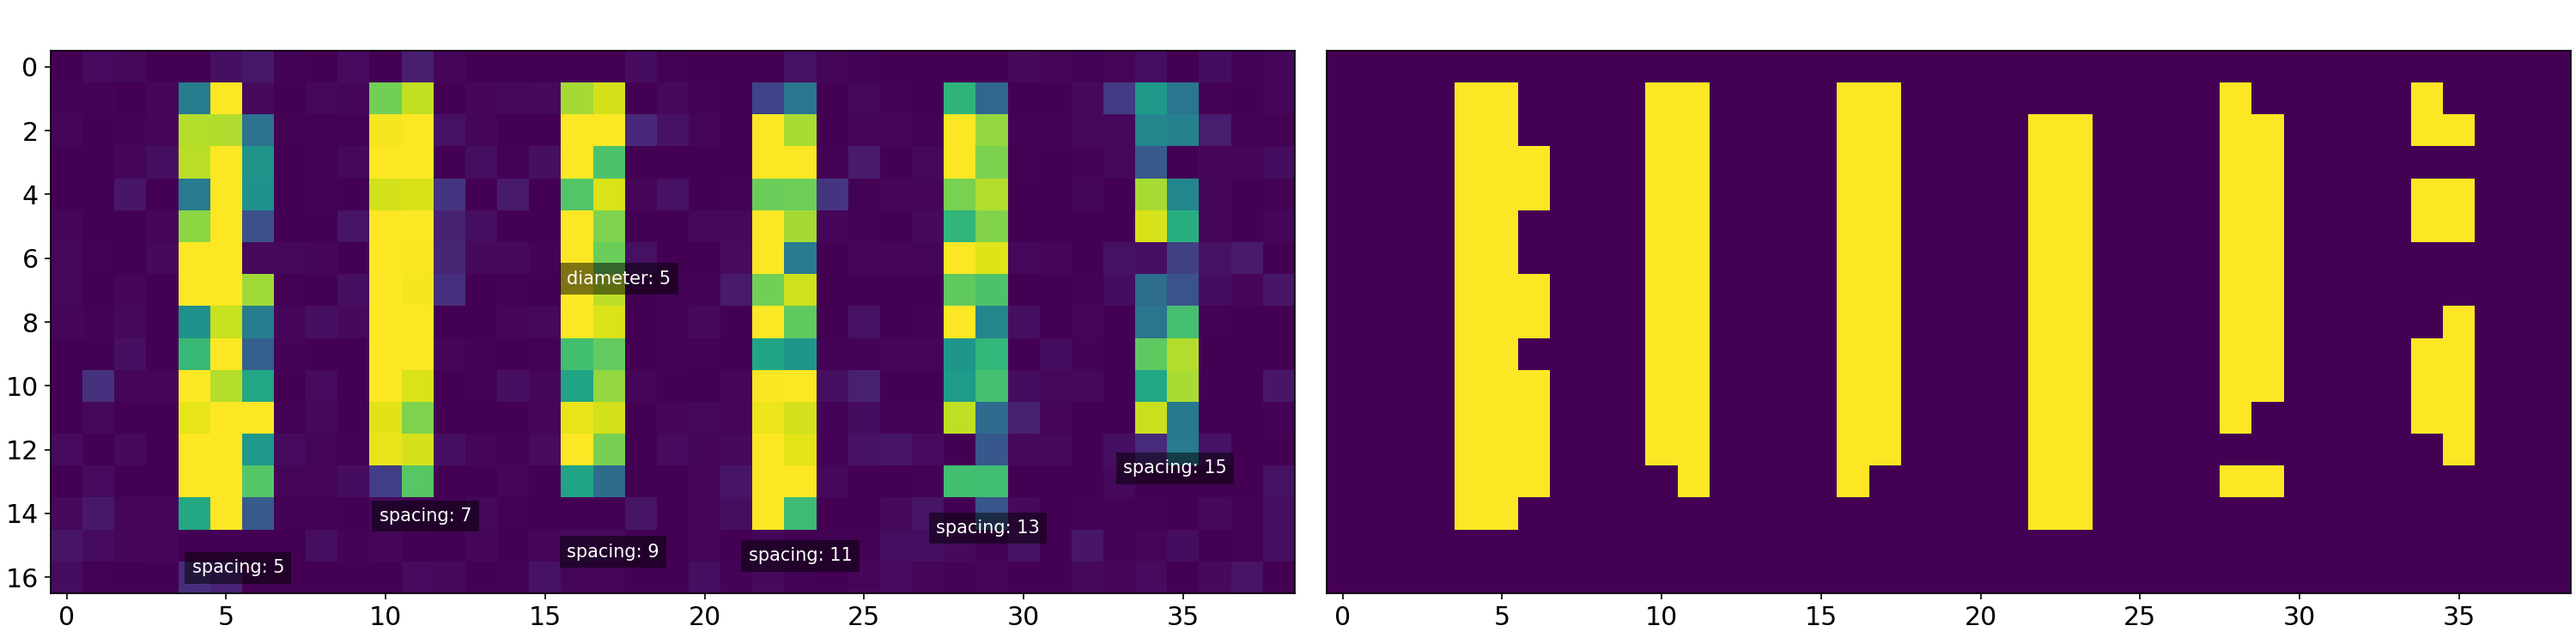
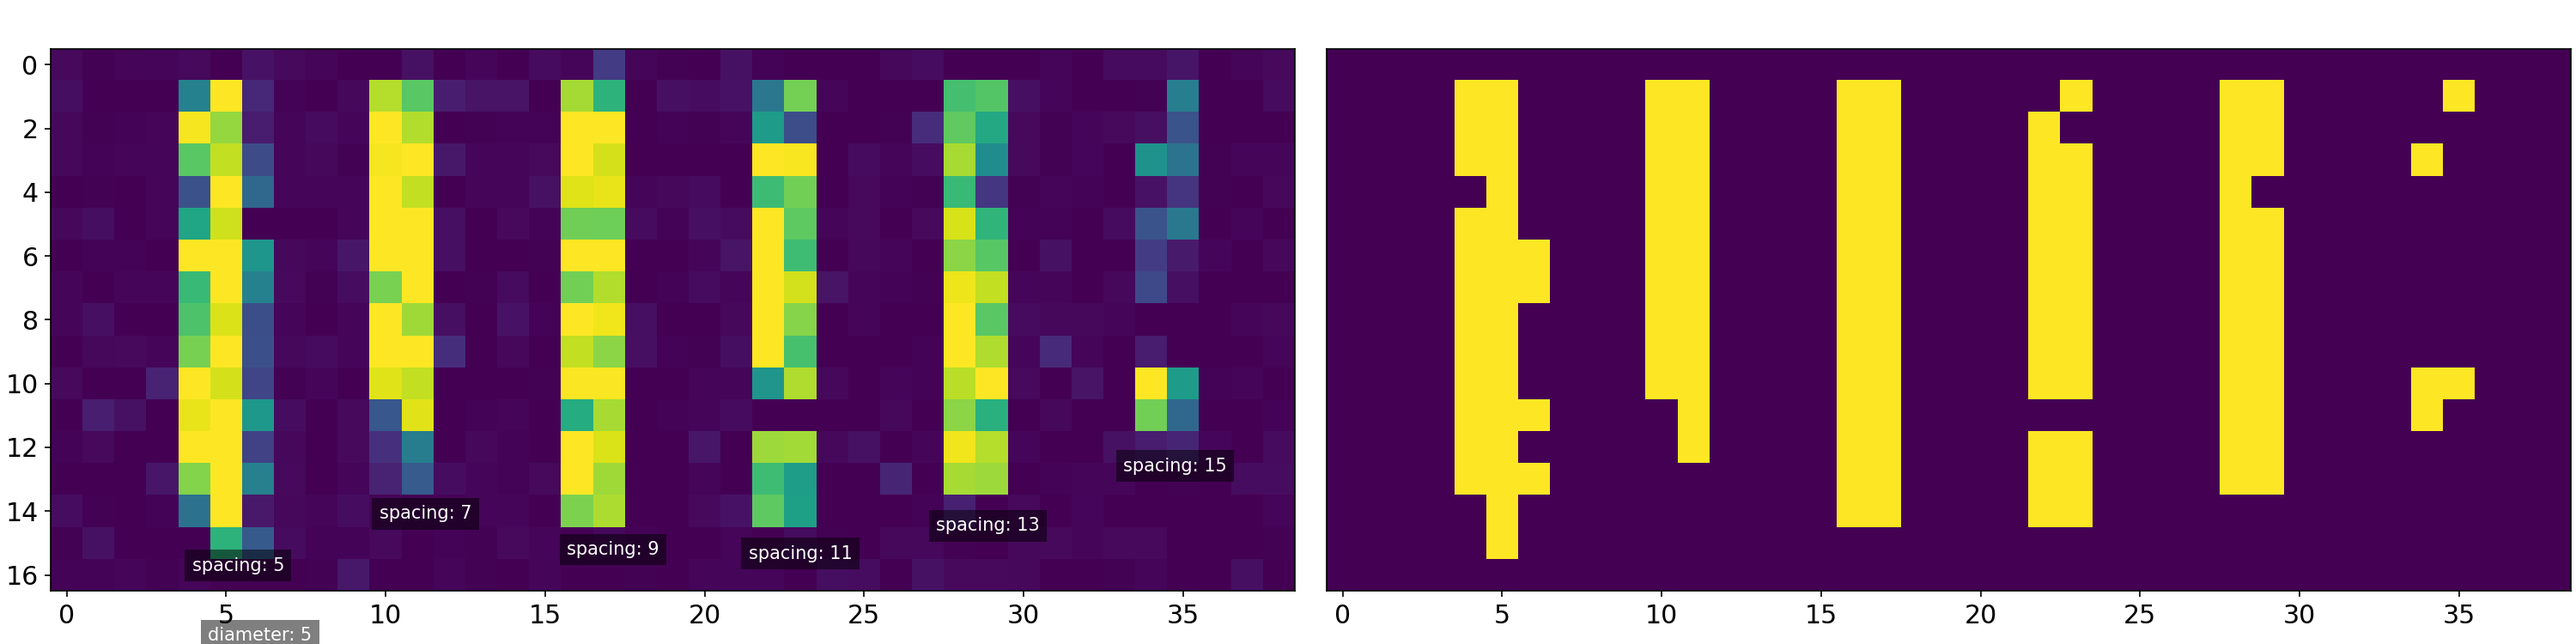
Documetnation + affichage des paramètres des disques

diff --git a/ImageSynthetique.py b/ImageSynthetique.py
@@ -16,14 +16,15 @@ params = {'legend.fontsize': 'x-large',
 plt.rcParams.update(params)
 tf.compat.v1.logging.set_verbosity(tf.compat.v1.logging.ERROR)
 
+
 class Image:
     """Docstring for Image class, with methods for generating a custom image.
 
-    args:
-        height: int
-        width: int
-        noise_lvl: float
-        seed: int
+    params:
+        height (int): image height
+        width (int): image width
+        noise_lvl (float): percentage of maximum grayscale value
+        seed (int): optional seed that determines random state
     """
 
     def __init__(self, height, width=640, noise_lvl=0.3, seed=None):
@@ -39,9 +40,9 @@ class Image:
     def create_image(self, noise_lvl, seed, classes=2):
         """Generate canvas for image.
 
-        args:
-            noise_lvl: float
-            seed: int
+        params:
+            noise_lvl (float): percentage of maximum grayscale value
+            seed (int): optional seed that determines random state
         """
         self.image = np.ones((self.height, self.width), np.float32) * 2
         self.noisy(noise_lvl*255, seed)
@@ -51,15 +52,16 @@ class Image:
         pass
 
     def clip(self):
+        """Clip image to maximum (255)."""
         self.image = np.clip(self.image, 0, 255)
         pass
 
     def noisy(self, intensity, seed):
         """Add noise to blank image.
 
-        args:
-            intensity: int
-            seed: int
+        params:
+            intensity (int): grayscale value
+            seed (int): optional seed that determines random state
         """
         np.random.seed(seed)
         random = np.random.normal(loc=intensity / 2,
@@ -69,6 +71,16 @@ class Image:
         pass
 
     def add_ladder(self, starting_pt, spacing, length, l_var, lines, seed=None):
+        """Add ladder object to image canvas.
+
+        params:
+            starting_pt (array_like): point from which to start ladder
+            spacing  (int): space inbetween bars of the ladder
+            length (int): bar length
+            l_var (int): maximum length variation (random)
+            lines (int): number of lines
+            seed (int): optional seed that determines random state
+        """
         times = 4
         big_image = np.zeros((self.height*times, self.width*times), np.float32)
 
@@ -106,7 +118,6 @@ class Image:
         self.mask = cv2.rectangle(self.mask, rect_top, rect_bottom, 255, -1)
 
         image_resize = cv2.resize(big_image, (self.width, self.height))
-        # image_resize = cv2.GaussianBlur(image_resize,(5,5),0.6)
         mask_2 = image_resize.copy().astype(np.uint8)
         _, mask_2 = cv2.threshold(mask_2, min_intensity-1, 255, cv2.THRESH_BINARY)
         self.segmentation[:, :, 0] += mask_2
@@ -123,7 +134,14 @@ class Image:
                             'lines': lines})
         pass
 
-    def add_star(self, center, diameter, intensity):
+    def add_disk(self, center, diameter, intensity):
+        """Add dosk object to image canvas.
+
+        params:
+            center (array_like): coordinates of the circle's center
+            diameter (int): diameter in pixels
+            intensity (float): maximum intensity in percentage
+        """
         times = 4
         intensity = int(intensity*255)
         radius = diameter / 2
@@ -133,7 +151,7 @@ class Image:
         top = tuple(np.array(center) - radius_ceil)
         bottom = tuple(np.array(center) + radius_floor)
         coords = (top, bottom)
-        self.objects.append({'type': 'star',
+        self.objects.append({'type': 'disk',
                             'center': center,
                             'diameter': diameter,
                             'coords': coords})
@@ -145,22 +163,28 @@ class Image:
         x_p = coords[1][0] + radius_floor
         y_m = coords[0][1] - radius_ceil
         y_p = coords[1][1] + radius_floor
-        self.image[x_m:x_p, y_m:y_p] = cv2.add(self.image[x_m:x_p, y_m:y_p], circle)
+        self.image[y_m:y_p, x_m:x_p] = cv2.add(self.image[y_m:y_p, x_m:x_p], circle)
         _, segmentation = cv2.threshold(circle, intensity-1, 255, cv2.THRESH_BINARY)
-        self.segmentation[x_m:x_p, y_m:y_p, 1] = segmentation
+        self.segmentation[y_m:y_p, x_m:x_p, 1] = segmentation
         self.clip()
         pass
 
     def plot_masked(self):
+        """Plot image masked."""
         masked = cv2.bitwise_and(self.image, self.image, mask=self.mask)
         plt.imshow(masked, vmin=0, vmax=255)
         pass
 
     def plot_label(self, with_coords=True):
-        fig = plt.figure()
+        """Plot image with labels, shows rectangle around objects and caracteristics.
+
+         params:
+            with_coords (bool): option to print out minimum and maximum coordinates.
+        """
+        plt.figure()
         plt.imshow(self.image, vmin=0, vmax=255)
-        for obj in self.objects:
-            coords = obj['coords']
+        for o in self.objects:
+            coords = o['coords']
             pt = (coords[0][0], coords[0][1])
             w = coords[1][0] - coords[0][0]
             h = coords[1][1] - coords[0][1]
@@ -169,32 +193,33 @@ class Image:
                                                 linewidth=1, edgecolor='r',
                                                 facecolor='none'))
             # Display type
-            text = 'type'+ str(obj['type'])+'\n'
-            if obj['type'] == 'ladder':
+            text = f"type: {o['type']}\n"
+            if o['type'] == 'ladder':
                 if with_coords:
-                    # Display minimum vertical coordinate
-                    text += 'y: ('+ str(obj['coords'][0][1])+':'
-                    # and maximum
-                    text += str(obj['coords'][1][1])+')\n'
+                    # Display minimum and maximum vertical coordinates
+                    text += 'y: ({}:{})\n'.format(*o['coords'][:][1])
                 # Display spacing in pixels
-                text += 'spacing: '+str(obj['spacing'])+'\n'
-                # Display length
-                text += 'length: '+str(obj['length'])
-                # Random variation in length (maximum in each sense)
-                text += '±'+str(obj['length_var'])+'\n'
+                text += 'spacing: {} \n'.format(o['spacing'])
+                # Display length and max variation in length
+                text += 'length: {}±{}\n'.format(o['length'], o['length_var'])
                 # Number of lines
-                text += 'lines: '+str(obj['lines'])
-            if obj['type'] == 'star':
-                text = ''
+                text += 'lines: {}'.format(o['lines'])
+                v_align = 'top'
+            if o['type'] == 'disk':
+                # Display center coordinates
+                text += 'center: ({}, {})\n'.format(*o['center'])
+                # Display diameter
+                text += f"diameter: {o['diameter']}"
+                v_align = 'center'
             pad = 5
             plt.gca().text(pt[0]+w+1+pad/2, pt[1]+pad/2, text,
                             color='white',
                             horizontalalignment='left',
-                            verticalalignment='top',
+                            verticalalignment=v_align,
                             bbox=dict(facecolor='black', alpha=0.5, pad=pad, linewidth=0))
         plt.colorbar(shrink=0.85, pad=0.01)
 
-        return fig
+        pass
 
     def sliding_window(self, window_size, pad_h, pad_v, threshold):
         self.window_size = window_size
@@ -291,7 +316,7 @@ class Image:
             h /= self.pad_v
             if obj['type'] == 'ladder':
                 text = 'spacing: '+str(obj['spacing'])
-            elif obj['type'] == 'star':
+            elif obj['type'] == 'disk':
                 text = 'diameter: ' + str(obj['diameter'])
             plt.gca().text(pt[0], pt[1]+h, text,
                                     color='white',

diff --git a/main.py b/main.py
@@ -8,12 +8,19 @@ os.environ['TF_CPP_MIN_LOG_LEVEL'] = '2'
 
 
 def timing(part='', start=None):
+    """Time code sections.
+
+    args:
+        part - str
+        start - timestamp
+    """
     if start is not None:
         print("Part %s took %1.2fs" % (part, (time.time() - start)))
     return time.time()
 
 
 def main():
+    """Run main."""
     height, width = (300, 640)
     threshold = float(sys.argv[2])
     window_size = 32
@@ -27,7 +34,7 @@ def main():
         train.add_ladder(starting_pt=[350, 30],
                         spacing=13, length=12,
                         l_var=1, lines=18)
-        train.add_star(center=[200, 200], radius=3, intensity=100)
+        train.add_disk(center=[200, 200], radius=3, intensity=100)
         train.plot_label()
         plt.savefig(img_dir + 'train')
         var_time = timing('train', var_time)
@@ -66,7 +73,7 @@ def main():
                             spacing=spacing, length=12,
                             l_var=2, lines=4*(55//spacing))
 
-        test.add_star([280, 100], 5, 0.3)
+        test.add_disk([100, 280], 5, 0.3)
         test.plot_label()
         plt.savefig(img_dir+'test')
         var_time = timing('test', var_time)
